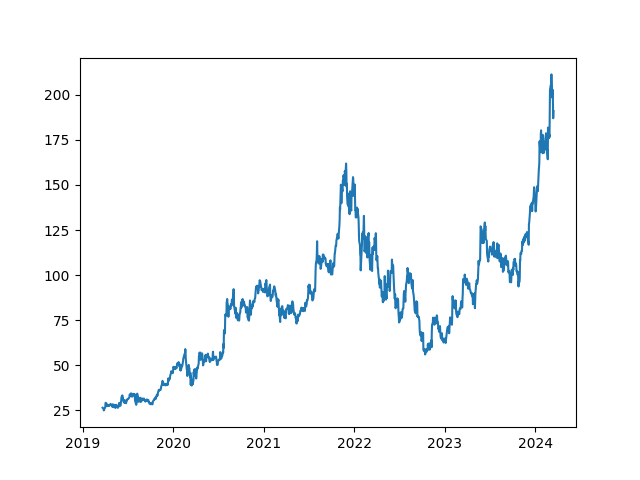
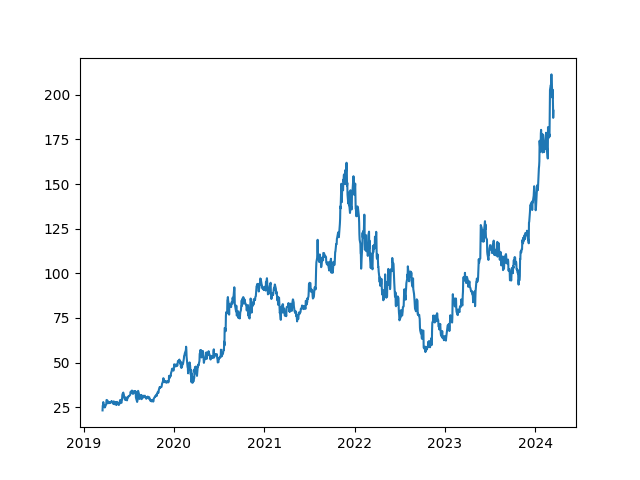
Lines on chart at events

diff --git a/astockagy/src/main/java/program/ui/AstrologyScreen.java b/astockagy/src/main/java/program/ui/AstrologyScreen.java
@@ -18,6 +18,7 @@ import javafx.scene.layout.HBox;
 import javafx.scene.layout.StackPane;
 import javafx.scene.layout.VBox;
 import javafx.scene.paint.Color;
+import javafx.scene.shape.Line;
 import program.controller.Controller;
 import java.nio.file.*;
 import java.text.DecimalFormat;
@@ -27,12 +28,12 @@ import java.util.Map;
 import java.util.concurrent.TimeUnit;
 
 public class AstrologyScreen extends StackPane {
-  final Date START_DATE = Controller.parseDate("2019-03-17");
+  final Date START_DATE = Controller.parseDate("2019-03-18");
   final Date END_DATE = Controller.getLatest();
   Map<Date, Float> stockData;
 
   public AstrologyScreen(Controller controller) {
-    System.out.println(daysBetween());
+    System.out.println(daysBetween(START_DATE, END_DATE));
 
     VBox display = new VBox();
 
@@ -73,6 +74,7 @@ public class AstrologyScreen extends StackPane {
     data.setBorder(new Border(new BorderStroke(Color.BLACK, BorderStrokeStyle.SOLID, CornerRadii.EMPTY, new BorderWidths(2))));
 
     display.getChildren().add(chartAndData);
+    StackPane chartOverlay = new StackPane();
 
     // TODO: Implement screen switching listener and cancel event if triggered
     //https://stackoverflow.com/questions/44398611/running-a-process-in-a-separate-thread-so-rest-of-java-fx-application-is-usable
@@ -87,8 +89,20 @@ public class AstrologyScreen extends StackPane {
     };
 
     executeAppTask.setOnSucceeded(e -> { //TODO: THIS PROBABLY ALL NEEDS TO BE IN A TRY CATCH BLOCK
+      //Line line = new Line(0, 0, 0, 400);
+      //line.setStrokeWidth(1);
+      //line.setTranslateX(-240); //PERFECT FOR EDGE
+      //line.setTranslateX(-220); //Perfect start of data
+      //line.setTranslateX(235); //RHS DATA
+      //Line line = eventLine(Controller.parseDate("2020-01-01"));
+      //Line line2 = eventLine(Controller.parseDate("2022-01-01"));
+      //System.out.println(Controller.parseDate("2020-01-01").toString());
       ImageView chart = new ImageView(new Image(this.getClass().getResource("/images/"+ ticker.getText() + ".png").toExternalForm())); 
+      chartOverlay.getChildren().addAll(chart);
 
+      for (String eventString : eventDate.getItems()) {
+        chartOverlay.getChildren().add(eventLine(Controller.parseDate(eventString)));
+      }
       // for (Map.Entry<String, Float> entry : controller.getStockData().entrySet()) { 
       //   System.out.println(entry.getKey() + " : "+ entry.getValue()); 
       // }
@@ -98,7 +112,7 @@ public class AstrologyScreen extends StackPane {
       this.stockData = controller.getStockDataDates(ticker.getText());
       //System.out.println(END_DATE.toString());
       //System.out.println(START_DATE.toString());
-      chartAndData.getChildren().add(chart); 
+      chartAndData.getChildren().add(chartOverlay); 
       chartAndData.getChildren().add(data);
 
       priceAtStart.setText("Price at start of range: " + stockData.get(START_DATE));
@@ -159,6 +173,9 @@ public class AstrologyScreen extends StackPane {
 
         priceAfterHolding.setText("Price after holding: " + (stockData.get(dateHolding)));
         increaseAfterHolding.setText("$" + Double.valueOf(twoDP.format((stockData.get(dateHolding) - stockData.get(dayBeforeDate)))) + " " + Double.valueOf(twoDP.format((stockData.get(dateHolding) - stockData.get(dayBeforeDate))/stockData.get(dayBeforeDate)*100)) + "%");
+      
+        
+      
       }
     });
   }
@@ -197,9 +214,23 @@ public class AstrologyScreen extends StackPane {
     }
   }
 
-  private int daysBetween() {
-    long diff = END_DATE.getTime() - START_DATE.getTime();
-    return (int)TimeUnit.DAYS.convert(diff, TimeUnit.MILLISECONDS);
+  private int daysBetween(Date from, Date to) {
+    long difference = to.getTime() - from.getTime();
+    return (int)TimeUnit.DAYS.convert(difference, TimeUnit.MILLISECONDS);
+  }
 
+  private Line eventLine(Date date) {
+    int totalDays = daysBetween(START_DATE, END_DATE);
+    int daysFromStart = daysBetween(START_DATE, date);
+
+    float fraction = (float)daysFromStart/(float)totalDays;
+
+    System.out.println("total: " + totalDays + " days from start: " + daysFromStart + " fraction: " + fraction + " moving by: " + -220+fraction*440);
+
+    Line line = new Line(0, 0, 0, 200);
+    line.setStrokeWidth(1);
+    line.setTranslateX(-220+fraction*455);
+
+    return line;
   }
 }
